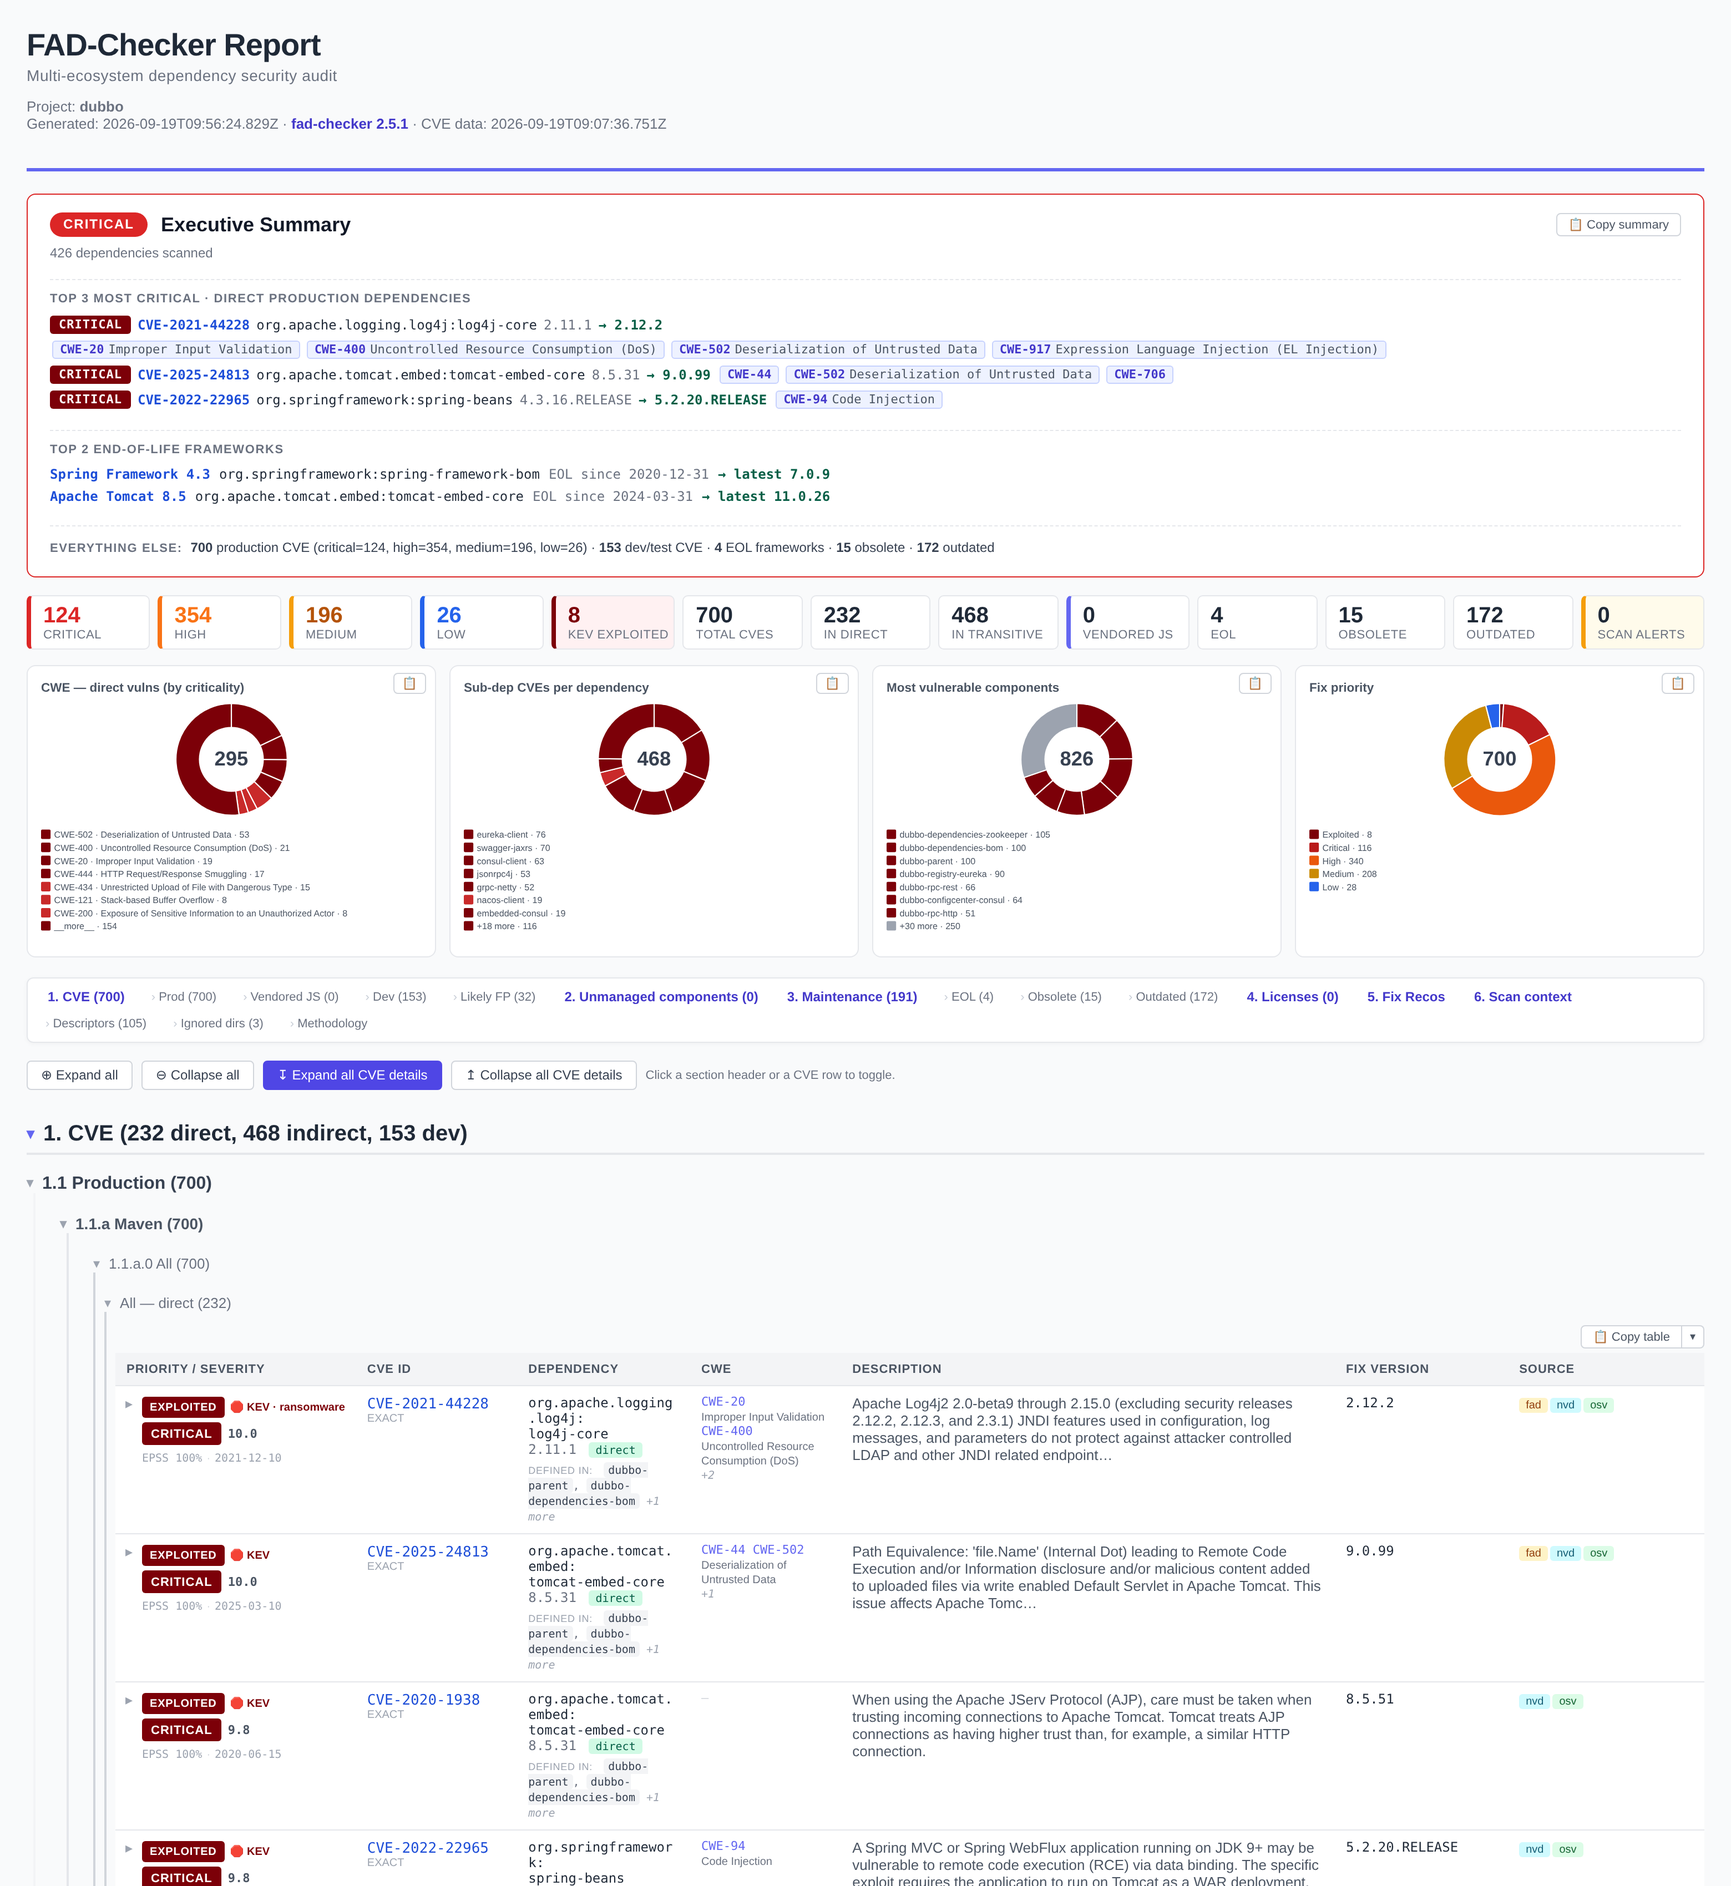
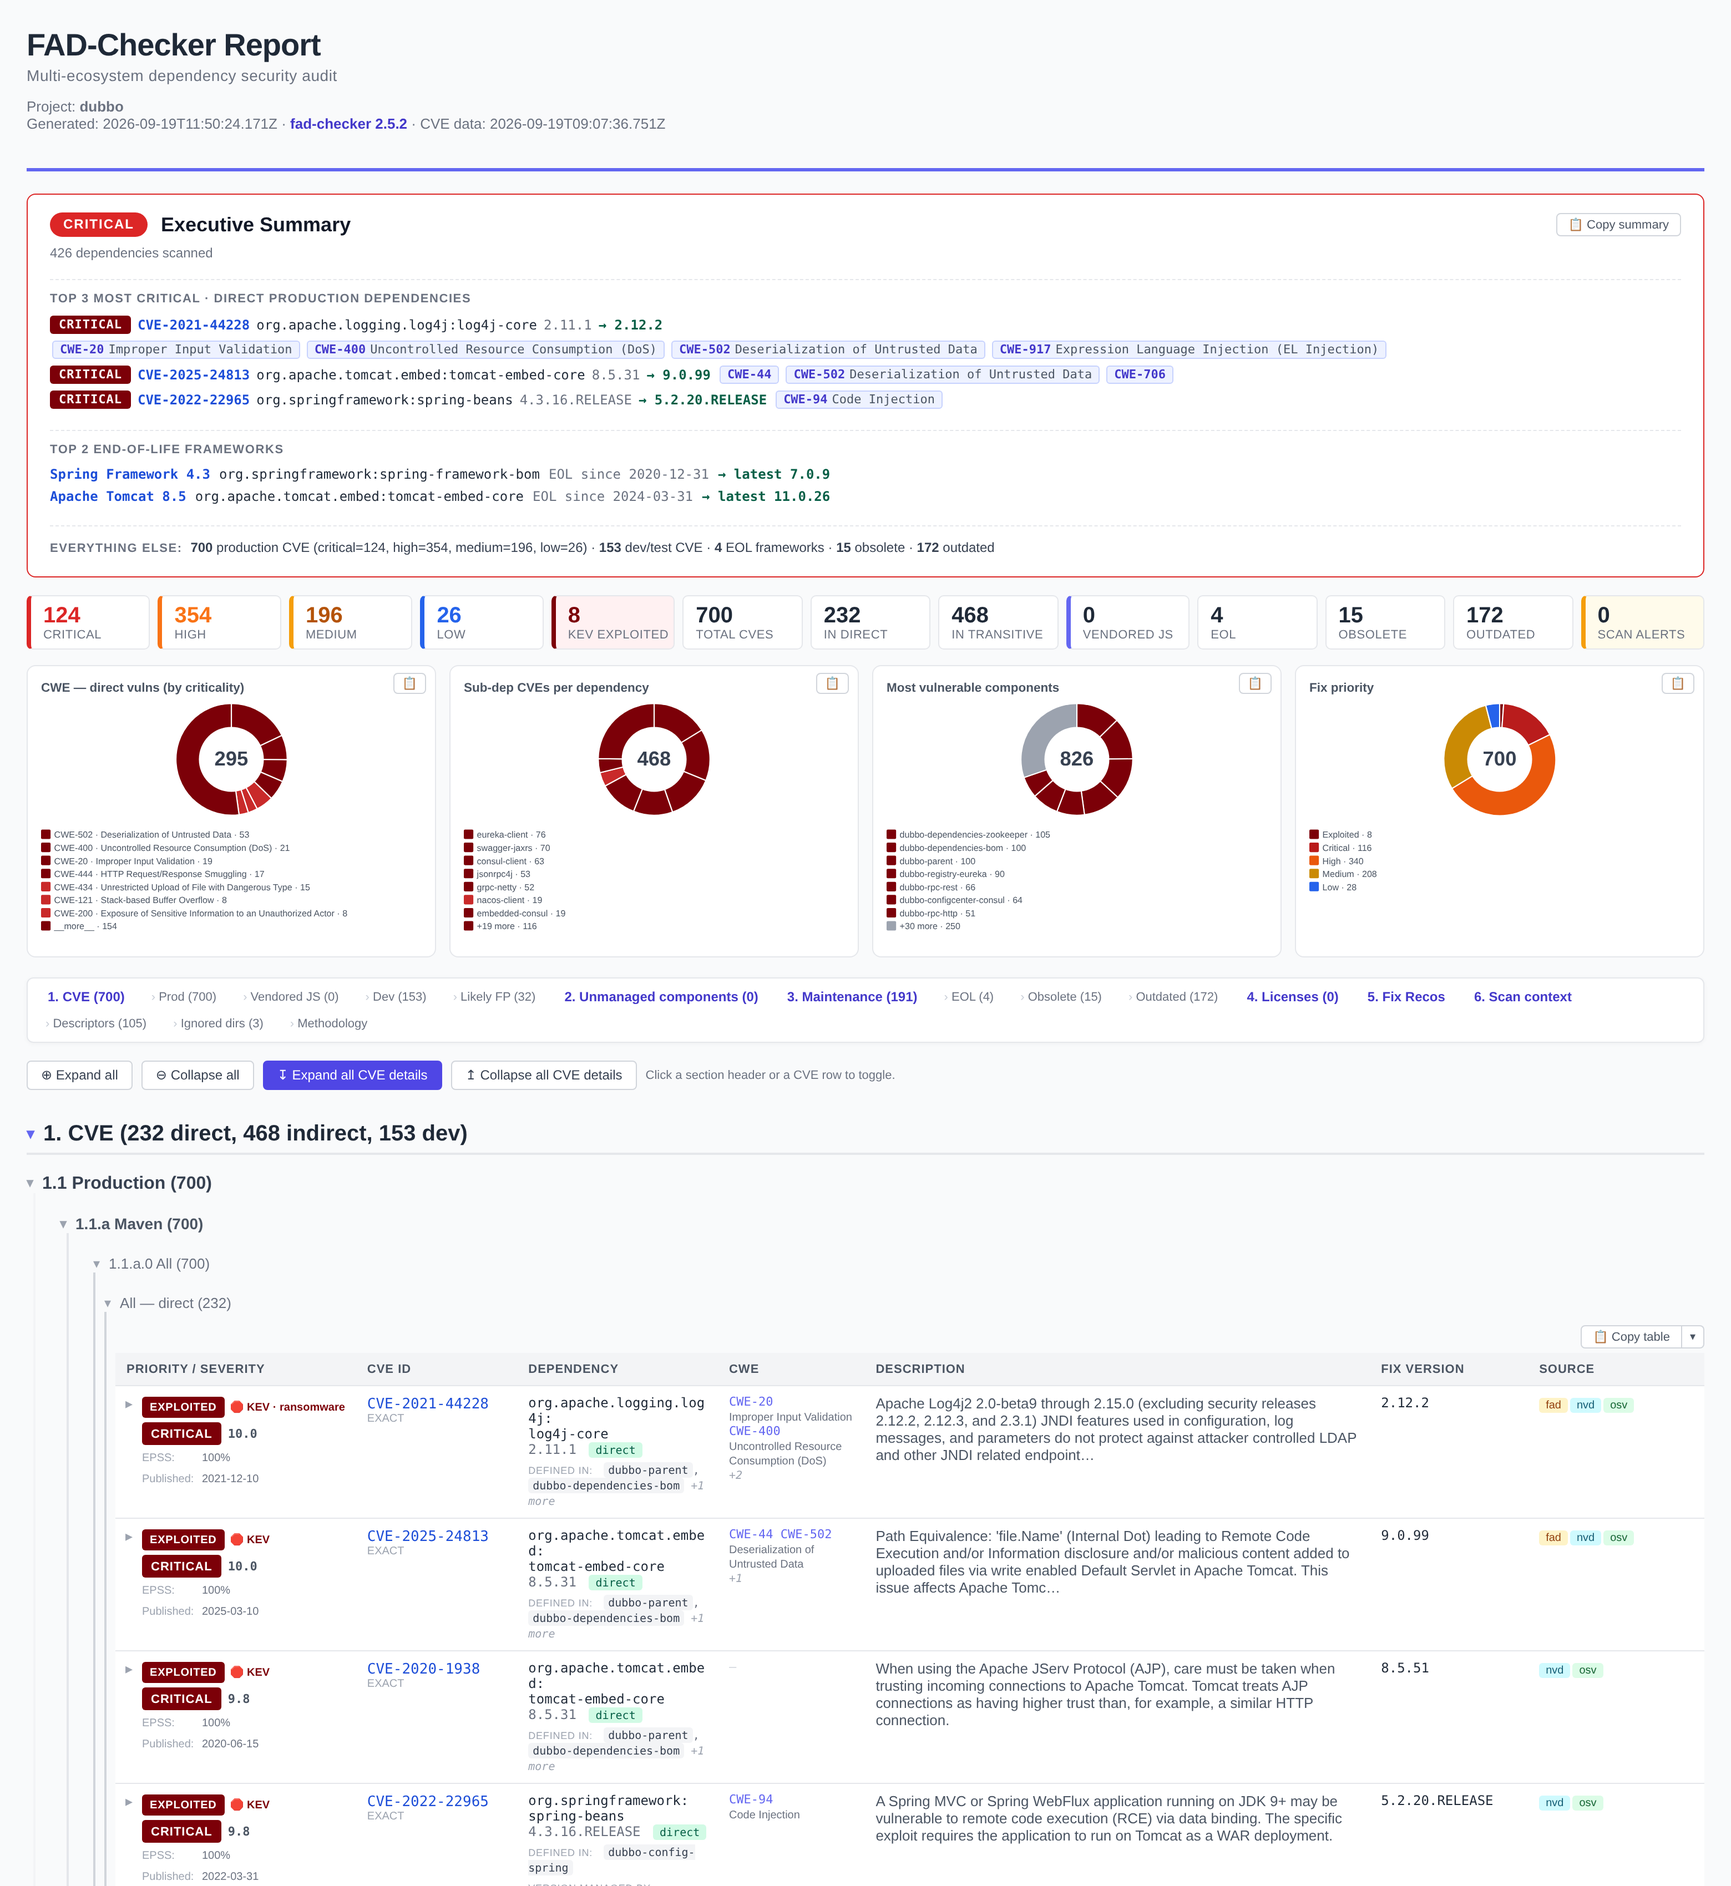
feat(report): the merged cell reads as four labelled lines, widths rebalanced around it
EPSS and the publication date were sharing one dim line as "100% · 2021-12-10".
Compact, and unreadable: neither value has a column header any more, so a bare
percentage next to a bare date tells the reader nothing about either. They are
now their own lines, labelled:

    EXPLOITED  KEV
    CRITICAL   10.0
    EPSS:      100%
    Published: 2021-12-10

The key is an inline-block with both a min-width and a right padding. min-width
alone aligns the short key but not the long one: "Published:" is already wider
than the minimum, so its value butted straight against the colon. Padding sits
inside the box and therefore applies after the ::after colon in both cases.

Four short lines need less width than three long ones, so the column gives 15%
back. Fix Version and Source give 10% each, Dependency takes a little more now
that it holds a coordinate rather than three descriptor paths, and every point
freed goes to Description — the only column whose content is prose and the one
that was actually running out. 11/9/13/10/35/10/12, still summing to 100.

Both Word paths follow the cell, as they must: the .doc stylesheet styles
.prio-k with its own colon, and the clipboard pass writes the colon into the
text, because a ::after is CSS and the clipboard carries no stylesheet. Verified:
the .doc colgroup still matches the header and emits the new widths, and clicking
copy in a real browser yields the four lines with no console error.
[…]

diff --git a/lib/cve-report.js b/lib/cve-report.js
@@ -110,18 +110,22 @@ function priorityParts(m) {
  *   line 3  EPSS + published date         (context, dimmed)
  */
 function priorityCell(m, published) {
-	const { bandBadge, kev, epss } = priorityParts(m);
+	const { bandBadge, kev } = priorityParts(m);
 	// 1 — act on this one? fix-priority band, and the KEV flag that overrides everything.
 	const l1 = `<div class="prio-line">${bandBadge}${kev}</div>`;
 	// 2 — how bad is it? CVSS severity and score.
 	const score = m.cve?.score != null ? `<span class="prio-score" title="CVSS base score">${esc(m.cve.score.toFixed(1))}</span>` : "";
 	const l2 = `<div class="prio-line">${badge(m.cve?.severity)}${score}</div>`;
-	// 3 — context, dimmed: exploitation likelihood and when it was published.
-	const bits = [];
-	if (epss) bits.push(epss);
-	if (published) bits.push(`<span class="prio-date" title="Published ${esc(published)}">${esc(published)}</span>`);
-	const l3 = bits.length ? `<div class="prio-line prio-meta">${bits.join(`<span class="prio-sep">·</span>`)}</div>` : "";
-	return `${l1}${l2}${l3}`;
+	// 3 and 4 — context, dimmed and LABELLED. A bare percentage and a bare date share no
+	// column header any more, so each says what it is rather than relying on the reader.
+	const meta = (key, value, title) =>
+		`<div class="prio-line prio-meta"><span class="prio-k">${esc(key)}</span>${title ? `<span title="${esc(title)}">${esc(value)}</span>` : esc(value)}</div>`;
+	const l3 = m.cve?.epssPercentile != null
+		? meta("EPSS", `${Math.round(m.cve.epssPercentile * 100)}%`,
+			`EPSS score ${m.cve.epssScore != null ? (m.cve.epssScore * 100).toFixed(1) : "?"}% — percentile among all scored CVEs`)
+		: "";
+	const l4 = published ? meta("Published", published, "") : "";
+	return `${l1}${l2}${l3}${l4}`;
 }
 
 const CSS = `
@@ -182,10 +186,13 @@ td.prio { white-space: normal; }
 td.prio .prio-line { display: block; line-height: 1.5; margin-bottom: 4px; white-space: nowrap; }
 td.prio .prio-line:last-child { margin-bottom: 0; }
 td.prio .prio-score { margin-left: 6px; font-size: 11px; font-weight: 600; color: #4b5563; font-family: ui-monospace, monospace; }
-td.prio .prio-meta { font-size: 10px; color: #9ca3af; white-space: nowrap; }   /* EPSS · date is one line, never wrapped mid-date */
+td.prio .prio-meta { font-size: 10px; color: #6b7280; white-space: nowrap; }
+/* A fixed-width key column so EPSS and Published line up under each other. The padding is
+   inside the inline-block and therefore applies AFTER the colon, which min-width alone does
+   not guarantee: "Published:" is already wider than the minimum and butted against its value. */
+td.prio .prio-k { display: inline-block; min-width: 5.4em; padding-right: 6px; color: #9ca3af; }
+td.prio .prio-k::after { content: ":"; }
 td.prio .prio-date { font-family: ui-monospace, monospace; }
-td.prio .prio-sep { margin: 0 4px; color: #d1d5db; }
-td.prio .prio-meta .epss-chip { display: inline; margin: 0; font-size: 10px; color: #9ca3af; }
 td.prio .prio-band { white-space: nowrap; }
 td.prio .kev-chip { display: inline-block; margin-left: 5px; font-size: 10px; font-weight: 700; color: #7c0008; white-space: nowrap; }
 td.prio .epss-chip { display: block; margin-top: 2px; font-size: 10px; color: #6b7280; font-family: ui-monospace, monospace; white-space: nowrap; }
@@ -2206,13 +2213,18 @@ const COPY_SCRIPT = `
 		clone.querySelectorAll('.prio-line').forEach(function(el){
 			el.setAttribute('style', 'display:block; margin-bottom:2px;');
 		});
-		clone.querySelectorAll('.kev-chip, .epss-chip').forEach(function(el){
+		clone.querySelectorAll('.kev-chip').forEach(function(el){
+			// a <div> with display:inline is unreliable in Word; a <span> is not
 			var span = document.createElement('span');
 			span.innerHTML = el.innerHTML;
-			span.setAttribute('style', el.classList.contains('kev-chip')
-				? 'margin-left:6px; font-weight:bold; font-size:8pt; color:#7c0008;'
-				: 'font-size:8pt; color:#6b7280;');
+			span.setAttribute('style', 'margin-left:6px; font-weight:bold; font-size:8pt; color:#7c0008;');
 			el.parentNode.replaceChild(span, el);
+		});
+		// The "EPSS:" / "Published:" keys are a ::after colon in CSS, which the clipboard
+		// does not carry — write the colon into the text so the paste still reads as a label.
+		clone.querySelectorAll('.prio-k').forEach(function(el){
+			el.textContent = (el.textContent || '').trim() + ': ';
+			el.setAttribute('style', 'color:#9ca3af;');
 		});
 		clone.querySelectorAll('.prio-meta').forEach(function(el){
 			el.setAttribute('style', 'display:block; margin-bottom:2px; font-size:8pt; color:#6b7280;');
@@ -2586,9 +2598,10 @@ tr.detail-row { display: table-row !important; }
 /* Merged priority cell: three stacked lines. Word honours block/inline on divs
    inconsistently, so both are stated rather than inherited. */
 td.prio .prio-line { display: block !important; margin-bottom: 2px; }
-td.prio .kev-chip, td.prio .epss-chip { display: inline !important; }
-td.prio .kev-chip { margin-left: 5px; font-size: 8pt; font-weight: bold; color: #7c0008; }
+td.prio .kev-chip { display: inline !important; margin-left: 5px; font-size: 8pt; font-weight: bold; color: #7c0008; }
 td.prio .prio-meta { font-size: 8pt; color: #6b7280; }
+td.prio .prio-k { display: inline !important; color: #9ca3af; }
+td.prio .prio-k:after { content: ": "; }
 td.prio .prio-score { margin-left: 5px; font-size: 9pt; font-weight: bold; color: #4b5563; }
 /* Long URLs and coordinates: wrap instead of overflow */
 td.cve, td.dep, .via, .ref-list li, .defined-in code { word-break: break-word; overflow-wrap: anywhere; }
@@ -2631,8 +2644,11 @@ const TABLE_COLGROUPS = {
 	  // Dependency halved and the width handed to Description: the cell now names the
 	  // MODULE instead of spelling out two or three descriptor paths, so it no longer
 	  // needs the room, and the description was the column actually running out.
-	  widths9: [13, 9, 11, 10, 33, 11, 13],
-	  widths10: [12, 8, 10, 9, 27, 10, 11, 13] },
+	  // Priority/severity -15% (four short lines need less room than three long ones),
+	  // Fix Version and Source -10%, Dependency up, and every point freed goes to
+	  // Description — the only column whose content is prose.
+	  widths9: [11, 9, 13, 10, 35, 10, 12],
+	  widths10: [10, 8, 12, 9, 29, 9, 10, 13] },
 	// 6-col EOL table
 	eol: { match: /<thead><tr><th>Product<\/th><th>Dependency<\/th><th>EOL date<\/th><th>Latest<\/th><th>Source<\/th><th>Notes<\/th><\/tr><\/thead>/,
 	  widths: [13, 24, 10, 10, 17, 26] },

diff --git a/CLAUDE.md b/CLAUDE.md
@@ -147,7 +147,7 @@ For the deep dive — pipeline stages, the resolved-deps Map shape, report struc
 - **A table must never widen the PAGE**: a table's minimum width is the sum of its columns' longest UNBREAKABLE token, and chapter 1 nests ecosystem → manifest → scope, each level costing ~30px (`details.report-subsection > div`). Measured at 495px of horizontal document overflow on the Dubbo report before the fix. Three rules keep it at 0 (verified 768→1600px): `overflow-wrap: anywhere` on the columns that hold long tokens ONLY — it is what shrinks min-content width, unlike `word-break: break-word` — with short cells (`td.cve`, `td.fix`, the severity badge) explicitly exempt so an identifier is not chopped into `CVE-`/`2021-`/`44228`; `.table-wrap { overflow-x: auto }` so any residue scrolls the table, never `<body>`; and a flattened inset past the second nesting level. The `.doc` stylesheet already hard-fitted tables for Word; the HTML never did.
 - **A finding's "defined in" names MODULES, capped at two**: `renderDefinedIn` labels each descriptor with `lib/module-names.js` and shows at most 2 (`+N more`), the full path staying as the tooltip. "dubbo-dependencies-zookeeper" instead of "dubbo-dependencies/dubbo-dependencies-zookeeper/pom.xml" says the same thing in a quarter of the width, and that cell's width was what squeezed the Description column. `RENDER_CTX.moduleNames` is populated at the TOP of `buildBody`, before any table renders.
 - **The injected `<colgroup>` is a HINT in HTML, a clamp in Word**: `injectColgroups` now runs for both outputs, but the HTML deliberately does NOT set `table-layout: fixed`. It was tried: with `overflow-wrap: anywhere` a cell has no natural minimum, so an 8% column laminated `org.apache.logging.log4j:log4j-core` into four characters per line. Auto layout takes the same proportions as a hint and refuses to go below what content needs; `td.dep` also carries an explicit `min-width` floor for the same reason. Word gets `table-layout: fixed` in its own stylesheet, where it has no better option.
-- **Priority / severity / published are ONE cell, three lines** (`priorityCell`): band + KEV, then severity + CVSS score, then EPSS + date (dimmed). Three narrow fixed-width columns were spending ~22% of the table on ~8% of the information. **Both Word paths must be kept in sync when this cell changes**: the `.doc` stylesheet states `display` explicitly (Word honours block/inline on a `<div>` unreliably) and `inlineStylesForWord` rewrites the inline chips to `<span>` with inline styles, because the clipboard carries no stylesheet. `TABLE_COLGROUPS.cve.match` keys on the exact header text — editing the header without it silently drops the Word column widths.
+- **Priority / severity / published are ONE cell, four lines** (`priorityCell`): band + KEV, severity + CVSS score, then `EPSS:` and `Published:` as labelled dimmed rows (the key is an inline-block with a min-width AND a right padding — the padding applies after the `::after` colon, which min-width alone does not guarantee, so a long key like `Published` stops butting against its value). They are labelled because neither a bare percentage nor a bare date has a column header any more. Three narrow fixed-width columns were spending ~22% of the table on ~8% of the information. **Both Word paths must be kept in sync when this cell changes**: the `.doc` stylesheet states `display` explicitly (Word honours block/inline on a `<div>` unreliably) and `inlineStylesForWord` rewrites the inline chips to `<span>` with inline styles, because the clipboard carries no stylesheet. `TABLE_COLGROUPS.cve.match` keys on the exact header text — editing the header without it silently drops the Word column widths.
 - **Codec abstraction**: every ecosystem lives behind a codec (`lib/codecs/*`) implementing one interface (`detect`/`collect`/`coordKey`/`formatCoord`/`osvPackageName`/`checkRegistry`/`resolveEolProduct`/`recipe`/`nativeScanners`). The orchestrator loops over the codecs `detectCodecs()` returns. OSV/NVD/CPE and the endoflife.date fetch are **shared, ecosystem-agnostic** services that ask the codec for a package/product name. CVE-index (maven) and retire.js (npm) are `nativeScanners` owned by their codec. Adding an ecosystem = adding a codec, no orchestrator edits.
 - **Map keys are ecosystem-namespaced** (`dep.coordKey`): Maven uses a **bare** `g:a` (kept prefix-free so `transitive.js` internals and existing tests are untouched); npm uses `npm:name`; new ecosystems use `nuget:`/`composer:vendor/pkg`/`pypi:`. Bare `g:a` is collision-free against those prefixes. Built by `makeDepRecord()`; `groupId`/`artifactId`/`pomPaths` are kept as real duplicated alias fields (not getters — depRecords are spread in hot paths).
 - **Every distinct version is scanned, not just the highest**: when profiles/modules pin the same `g:a` to different versions, the resolved-dep entry keeps `version` = highest (representative for display/EOL/outdated) but `versions` = all distinct concrete versions. CVE matching (`matchOne`) and OSV (`queryOsvForDeps`) iterate `versions` so a vuln affecting only a lower-versioned profile variant isn't missed. Match dedup keys are `g:a:version|cve.id` (version included) to preserve per-version findings. **Masked transitive versions are added by `lib/version-overlay.js`** (see below): they land in `versions[]` with a `maskedVersions[]` provenance entry (`{version, via, module}`).

diff --git a/CHANGELOG.md b/CHANGELOG.md
@@ -29,6 +29,13 @@ This project adheres to [Semantic Versioning](https://semver.org/).
   version, its docs, its issue tracker — without asking whoever ran the scan.
 
 ### Changed
+- **The merged priority cell reads as four labelled lines**, and the CVE table's widths were
+  rebalanced around it: band + KEV, severity + CVSS score, then `EPSS: 100%` and
+  `Published: 2021-12-10`. The last two are labelled because neither a bare percentage nor a
+  bare date has a column header of its own any more. Four short lines need less width than
+  three long ones, so Priority/severity gives 15% back, Fix Version and Source 10% each,
+  Dependency takes a little more, and every point freed goes to Description — the only column
+  whose content is prose.
 - **A finding now says which MODULE ships it, not which file declares it.** The "defined in"
   footer showed up to three descriptor paths; it now shows up to two module names —
   `dubbo-dependencies-zookeeper` rather than
